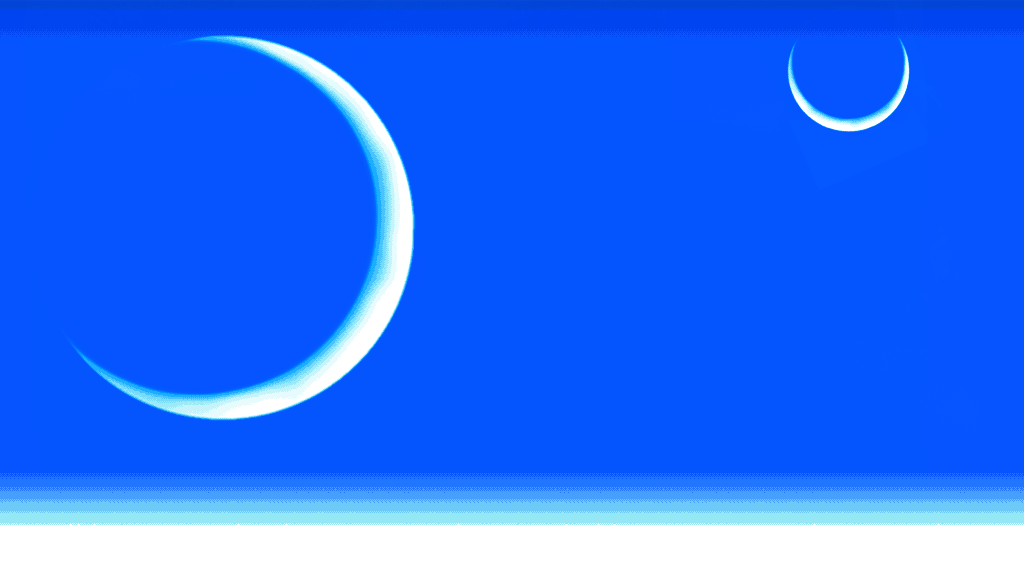
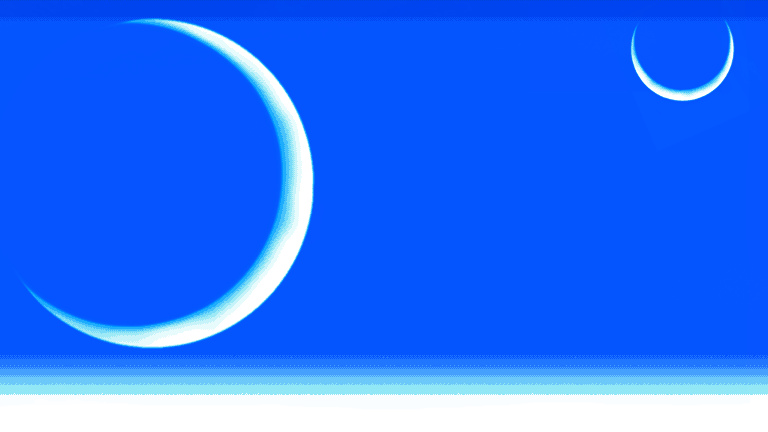
more art improvements

diff --git a/src/scenes/game.js b/src/scenes/game.js
@@ -2,6 +2,7 @@ import Phaser from 'phaser';
 
 import backgroundGradient from '../assets/backgrounds/game/background-new.png';
 import clouds from '../assets/backgrounds/game/clouds.png';
+import mountains from '../assets/backgrounds/game/mountains.png';
 import sea from '../assets/backgrounds/game/sea.png';
 import rockTilemap from '../assets/levels/processed/test-level/rocks-grass-test.png';
 import level from '../assets/levels/processed/test-level/test.json';
@@ -93,7 +94,8 @@ export default class Game extends Phaser.Scene {
   preloadBackground() {
     this.load.image('back-gradient', backgroundGradient);
     this.load.image('clouds', clouds);
-    // this.load.image('moon', moon);
+    // this.load.image('moon', moon);\
+    this.load.image('mountains', mountains);
     this.load.image('sea', sea);
   }
 
@@ -110,6 +112,10 @@ export default class Game extends Phaser.Scene {
     this.clouds = this.add
       .tileSprite(center.width, center.height, WIDTH, HEIGHT, 'clouds')
       .setScrollFactor(0, 0);
+
+    this.mountains = this.add
+      .tileSprite(center.width, center.height, WIDTH, HEIGHT, 'mountains')
+      .setScrollFactor(0.1, 0);
 
     this.add
       .image(center.width, center.height * 2.25, 'sea')

diff --git a/src/config/constants.js b/src/config/constants.js
@@ -1,7 +1,7 @@
 const SCALE = 1;
 
 export default {
-  WIDTH: 1024 * SCALE,
-  HEIGHT: 576 * SCALE,
+  WIDTH: 768 * SCALE,
+  HEIGHT: 432 * SCALE,
   SCALE: SCALE
 };
